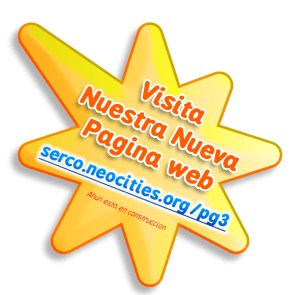
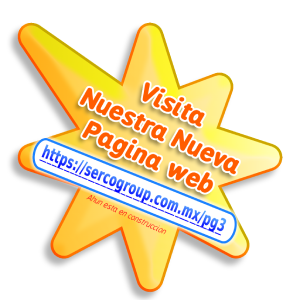
Add files via upload

diff --git a/pg3.html b/pg3.html
@@ -1,4 +1,3 @@
-
 <!DOCTYPE html>
 <html lang="es">
 <head>
@@ -341,7 +340,7 @@
 
             <div class="relative max-w-6xl mx-auto bg-card rounded-xl shadow-2xl overflow-hidden border border-card transition-colors duration-500">
                 <div id="gallery-container" class="relative">
-                    </div>
+                </div>
                 
                 <button id="prev-btn" class="absolute top-1/2 left-4 transform -translate-y-1/2 bg-black bg-opacity-50 text-white p-3 rounded-full hover:bg-opacity-75 transition duration-300 z-10">
                     <i class="fas fa-chevron-left"></i>
@@ -589,65 +588,117 @@
         const galleryContainer = document.getElementById('gallery-container');
         const prevBtn = document.getElementById('prev-btn');
         const nextBtn = document.getElementById('next-btn');
-        const totalImages = 20; // Hasta 20.jpg
+        const totalImages = 50; // Hasta 50.jpg
         let currentImageIndex = 1;
+        let validImages = []; // Array para guardar solo los índices de las imágenes que cargaron correctamente
 
         // Cargar las imágenes
-        function loadImages() {
+        async function loadImages() {
+            // Limpiar el contenedor antes de empezar
+            galleryContainer.innerHTML = ''; 
+            validImages = [];
+            
+            let firstValidImageLoaded = false;
+
             for (let i = 1; i <= totalImages; i++) {
-                const img = document.createElement('img');
-                img.src = `./fotos/${i}.jpg`; 
-                img.onerror = function() {
-                    this.onerror = null; 
-                    img.src = `https://placehold.co/1200x400/111827/555555?text=fotos/${i}.jpg`;
-                };
-                img.alt = `Proyecto Serco - Imagen ${i}`;
-                img.id = `img-${i}`;
-                img.classList.add('gallery-image');
-                if (i === currentImageIndex) {
-                    img.classList.add('active');
+                const imagePath = `./fotos/${i}.jpg`;
+                
+                try {
+                    // Usamos fetch para verificar si la imagen existe (HEAD es más rápido)
+                    const response = await fetch(imagePath, { method: 'HEAD' });
+                    
+                    if (response.ok) {
+                        // Si existe, la añadimos al DOM y a la lista de imágenes válidas
+                        const img = document.createElement('img');
+                        img.src = imagePath;
+                        img.alt = `Proyecto Serco - Imagen ${i}`;
+                        img.id = `img-${i}`;
+                        img.classList.add('gallery-image');
+                        
+                        if (!firstValidImageLoaded) {
+                            img.classList.add('active'); // La primera imagen válida es la activa inicial
+                            currentImageIndex = i; // Establecemos el índice inicial
+                            firstValidImageLoaded = true;
+                        }
+                        
+                        galleryContainer.appendChild(img);
+                        validImages.push(i); // Guardamos el índice (el número del archivo)
+                    }
+                    // Si response no es ok (ej. 404), simplemente no hacemos nada (no placeholder)
+                } catch (error) {
+                    // Error de red, o el archivo no existe. Ignoramos.
+                    console.log(`Error al cargar la imagen ${i}.jpg:`, error.message);
                 }
-                galleryContainer.appendChild(img);
+            }
+            
+            // Si no hay imágenes válidas, desactivar botones y carrusel
+            if (validImages.length === 0) {
+                prevBtn.style.display = 'none';
+                nextBtn.style.display = 'none';
+                clearInterval(autoplayInterval);
+                galleryContainer.innerHTML = '<p class="text-center text-xl text-card-text p-4">Aún no hay proyectos cargados en la galería.</p>';
             }
         }
 
-        // Función para mostrar la imagen
-        function showImage(index) {
-            // Asegurar que el índice esté dentro del rango
-            if (index < 1) {
-                index = totalImages;
-            } else if (index > totalImages) {
-                index = 1;
-            }
+        // Función para mostrar la imagen (ahora basada en los índices válidos)
+        function showImage(direction) {
+            if (validImages.length === 0) return;
 
-            // Ocultar todas las imágenes y luego mostrar la actual
+            // Encontrar la posición del índice actual en el array validImages
+            let currentIndexInArray = validImages.indexOf(currentImageIndex);
+            
+            let newIndexInArray;
+
+            if (direction === 'next') {
+                newIndexInArray = (currentIndexInArray + 1) % validImages.length;
+            } else if (direction === 'prev') {
+                newIndexInArray = (currentIndexInArray - 1 + validImages.length) % validImages.length;
+            } else {
+                return; // No hacer nada si no se especifica dirección
+            }
+            
+            const newImageIndex = validImages[newIndexInArray];
+
+            // Ocultar todas las imágenes y luego mostrar la nueva
             document.querySelectorAll('.gallery-image').forEach(img => {
                 img.classList.remove('active');
             });
 
-            const currentImg = document.getElementById(`img-${index}`);
+            const currentImg = document.getElementById(`img-${newImageIndex}`);
             if (currentImg) {
                 currentImg.classList.add('active');
-                currentImageIndex = index;
+                currentImageIndex = newImageIndex;
             }
         }
 
         // Handlers de los botones
         prevBtn.addEventListener('click', () => {
-            showImage(currentImageIndex - 1);
+            showImage('prev');
         });
 
         nextBtn.addEventListener('click', () => {
-            showImage(currentImageIndex + 1);
+            showImage('next');
         });
 
         // Autoplay del carrusel
-        setInterval(() => {
-            showImage(currentImageIndex + 1);
-        }, 5000); // Cambia cada 5 segundos
-
+        let autoplayInterval;
+        
+        function startAutoplay() {
+            if (validImages.length > 1) {
+                autoplayInterval = setInterval(() => {
+                    showImage('next');
+                }, 5000); // Cambia cada 5 segundos
+            }
+        }
+        
+        // Pausar/Reanudar autoplay al interactuar
+        galleryContainer.addEventListener('mouseover', () => clearInterval(autoplayInterval));
+        galleryContainer.addEventListener('mouseleave', () => startAutoplay());
+        
         // Iniciar la galería al cargar
-        loadImages();
+        loadImages().then(() => {
+            startAutoplay(); // Iniciar solo después de que se hayan cargado las imágenes válidas
+        });
 
         // -------------------------
         // 5. Lógica del Formulario Mailto

diff --git a/index.html b/index.html
@@ -23,7 +23,7 @@
         </div>
         
         <div id="anuncio-flotante" class="anuncio-oculto">
-            <a href="https://serco.neocities.org/pg3" target="_blank" rel="noopener noreferrer">
+            <a href="https://sercogroup.com.mx/pg3" target="_blank" rel="noopener noreferrer">
                 <img src="anuncio.png" alt="Anuncio Especial">
             </a>
         </div>
